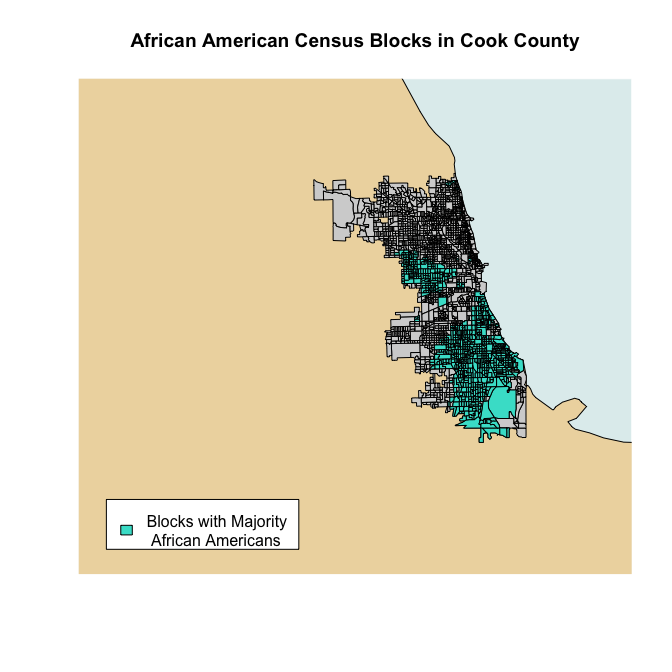
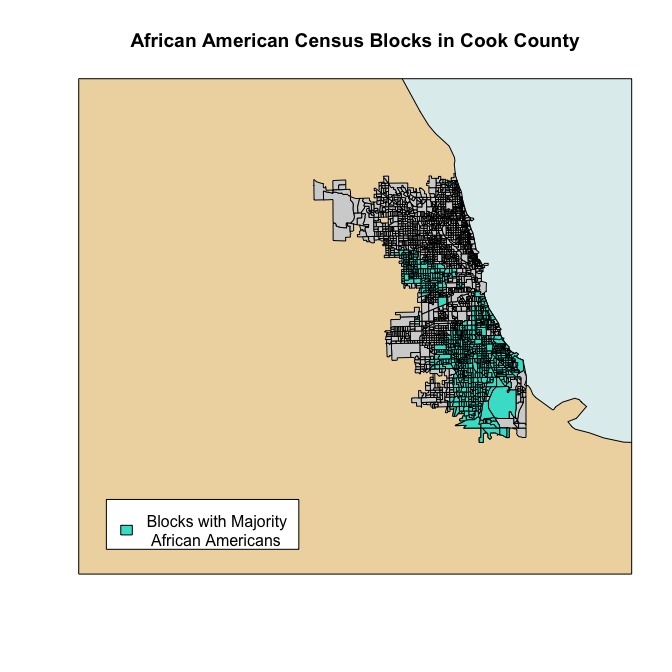
table updates

diff --git a/Magnet_Analysis.md b/Magnet_Analysis.md
@@ -2,7 +2,7 @@ Magnet Analysis
 ================
 Chad Evans
 
-Built with 3.3.2. Last run on 2017-05-31.
+Built with 3.3.2. Last run on 2017-06-02.
 
 -   [Set Up](#setup)
 -   [Chicago Map](#chicagomap)
@@ -101,7 +101,7 @@ plot(chiblocks.shp, add=T, col="red3")
 legend("bottomleft", inset=.05, c("Cook County","City of Chicago"), fill=c("lightgrey","red3"), horiz=FALSE, bg="white")  
 ```
 
-<img src="graphs/Chicago_Cook_County_Map-1.png" alt="alt text" width="400" height="400">
+<img src="graphs/Chicago_Cook_County_Map-1.png" width="500" height="500">
 
 Majority African American Blocks
 --------------------------------
@@ -110,6 +110,7 @@ Let's highlight the areas of Chicago that are majority African American. The sou
 
 ``` r
 plot(USA.shp, ylim=c(41.6, 42), xlim=c(-88.4, -87.35),col = "wheat2",bg="azure2", main="African American Census Blocks in Cook County")
+box()
 plot(chiblocks.shp, add=T, col="lightgrey")
 pctblack.shp=chiblocks.shp[!is.na(chiblocks.shp$PCTBLACK),]
 sel <- pctblack.shp$PCTBLACK > 0.50
@@ -117,7 +118,7 @@ plot(pctblack.shp[sel, ], col = "turquoise", add = TRUE) # add selected zones to
 legend("bottomleft", inset=.05, c("Blocks with Majority \n African Americans"), fill=c("turquoise"), horiz=FALSE, bg="white") 
 ```
 
-![](graphs/Majority_Black_Census_Tracts_Map-1.png)
+<img src="graphs/Majority_Black_Census_Tracts_Map-1.png" width="500" height="500">
 
 This map is consistent with expectations.
 
@@ -144,7 +145,7 @@ plot(chiblocks.shp[chiblocks.shp$PERCAPCRIME > .2, ], col = "orange", add = TRUE
 legend("bottomleft", inset=.05, c("Blocks with > .2 \n crimes per ACS respondent"), fill=c("orange"), horiz=FALSE, bg="white") 
 ```
 
-![](graphs/High_Crime_Census_Blocks_in_Chicago-1.png)
+<img src="graphs/High_Crime_Census_Blocks_in_Chicago-1.png" width="500" height="500">
 
 Elementary Schools in Chicago
 -----------------------------
@@ -161,12 +162,12 @@ Now, let's plot those schools over the city of chicago base file.
 ``` r
 plot(USA.shp, ylim=c(41.64454, 42.02304), xlim=c(-87.94011, -87.52414),col = "wheat2",bg="azure2", main="Elementary Schools in Chicago")
 box()
-plot(chi.shp, add=T, col="lightgrey")
+plot(chiblocks.shp, add=T, col="lightgrey")
 plot(schools.shp, pch = 17, add=T, col="red")
 legend("bottomleft", inset=.05, pch = 17, c("Elementary School"), col="red", horiz=FALSE, bg="white")   
 ```
 
-![](graphs/Elem_Schools_in_Chicago_Map-1.png)
+<img src="graphs/Elem_Schools_in_Chicago_Map-1.png" width="500" height="500">
 
 ``` r
 plot(USA.shp, ylim=c(41.63454, 42.02304), xlim=c(-87.94011, -87.52414),col = "wheat2",bg="azure2")
@@ -175,16 +176,16 @@ plot(chiblocks.shp, add=T, col="lightgrey")
 magnets.shp<-schools.shp[schools.shp$Type2=="Magnet",]
 clusters.shp<-schools.shp[schools.shp$Type2=="Magnet Cluster",]
 openenroll.shp<-schools.shp[schools.shp$Type2=="Open Enrollment", ]
-plot(magnets.shp, pch = 17, add=T, col="red",cex=2.5)
-plot(clusters.shp, pch = 17, add=T, col="blue",cex=2.5)
-plot(openenroll.shp, pch = 17, add=T, col="darkgreen",cex=2.5)
-legend("bottomleft", inset=.05, pch = c(17,17,17,15), c("Traditional Magnet","Magnet Cluster","Neighborhood School", "Chicago Census Block"), col=c("red","blue","darkgreen","lightgrey"), horiz=FALSE, cex=2.5)   
+plot(magnets.shp, pch = 17, add=T, col="red",cex=1)
+plot(clusters.shp, pch = 17, add=T, col="blue",cex=1)
+plot(openenroll.shp, pch = 17, add=T, col="darkgreen",cex=1)
+legend("bottomleft", inset=.05, pch = c(17,17,17,15), c("Traditional Magnet","Magnet Cluster","Neighborhood School", "Chicago Census Block"), col=c("red","blue","darkgreen","lightgrey"), horiz=FALSE, cex=1)   
 mtext("Lake Michigan             ",side=1,line=-75,adj=1,cex=2.5,col="darkblue")
 mtext("Source: Chicago Public Schools Data Portal 2013-2014. Map excludes elementary charters, magnets that require admissions tests, \n small schools and special education schools.",side=1,line=3,adj=0,cex=2,col="black")
 mtext("           Illinois",side=1,line=-45,adj=0,cex=3,col="black")
 ```
 
-![](graphs/School_Types_Chicago_Color-1.png)
+<img src="graphs/School_Types_Chicago_Color-1.png" width="500" height="500">
 
 ``` r
 plot(USA.shp, ylim=c(41.63454, 42.02304), xlim=c(-87.94011, -87.52414),col = "lightgrey",bg="gray96")
@@ -202,7 +203,7 @@ mtext("Source: Chicago Public Schools Data Portal 2013-2014. Map excludes elemen
 mtext("           Illinois",side=1,line=-45,adj=0,cex=3,col="black")
 ```
 
-![](graphs/School_Types_Chicago_BW-1.png)
+<img src="graphs/School_Types_Chicago_BW-1.png" width="500" height="500">
 
 Chicago blocks on Lake Michigan
 -------------------------------
@@ -212,7 +213,7 @@ ShapeFile.Dissolved<-gUnionCascaded(chiblocks.shp)
 x<-gRelate(chiblocks.shp, ShapeFile.Dissolved, byid= TRUE)
 poly.border<-which(x %in% c("2FF11F212"))
 #library(raster)  # crop from raster() requires select() from base
-michblocks.shp <- raster::crop(chiblocks.shp[poly.border,], raster::extent(-87.7, -87.525, 41.73180, 42.25))
+michblocks.shp <- raster::crop(chiblocks.shp[poly.border,], raster::extent(-87.673, -87.525, 41.70, 42.25))
 ```
 
     ## Warning: Setting row names on a tibble is deprecated.
@@ -224,10 +225,7 @@ michblocks.shp$MICH<-1
 chiblocks.shp@data$MICH<-0
 rows <- row.names(michblocks.shp@data)
 chiblocks.shp@data[rows, "MICH"] <- michblocks.shp@data$MICH
-```
-
-``` r
-spjoin <- over(schools.shp, chiblocks.shp) %>% as_data_frame()
+spjoin <- over(schools.shp, chiblocks.shp) %>% as_data_frame() 
 ```
 
     ## Warning: Setting row names on a tibble is deprecated.
@@ -236,17 +234,18 @@ spjoin <- over(schools.shp, chiblocks.shp) %>% as_data_frame()
 data=bind_cols(schools.shp@data, spjoin)
 ```
 
+There are no schools located in neighborhoods that directly border Lake Michigan
+
 ``` r
 data$Type=relevel(data$Type, ref="Open Enrollment")
 data$Type2=relevel(data$Type2, ref="Open Enrollment")
-#data$Type2=relevel(data$Type2, ref="Magnet Cluster")
 data<- data %>% filter(Type2 == "Open Enrollment" | Type2 == "Magnet" | Type2 == "Magnet Cluster") # removes schools requiring testing, small, special ed and charter schools
 ```
 
 Let's center variables and calculate the quadratic value, when required by the analysis.
 
 ``` r
-data <- data %>% mutate(CPERCAPCRIME= PERCAPCRIME-mean(PERCAPCRIME,na.rm=T), CLOGPCT30MIN=log(PCT30MIN)-mean(log(PCT30MIN), na.rm=T), CPCTHOMEAGE40=PCTHOMEAGE40-mean(PCTHOMEAGE40,na.rm=T), CLOGMEDINCOME=log(MEDINCOME)-mean(log(MEDINCOME), na.rm=T), CMICH=MICH-mean(MICH,na.rm=T), CREAD=ISAT.Exceeding.Reading...-mean(ISAT.Exceeding.Reading...,na.rm=T), CMATH=ISAT.Exceeding.Math..-mean(ISAT.Exceeding.Math..,na.rm=T), CBk=PCTBLACK - mean(PCTBLACK, na.rm=T), CMEDROOMS=MEDROOMS-mean(MEDROOMS, na.rm=T)) %>% mutate(CBk2=CBk*CBk, CMEDROOMS2=CMEDROOMS*CMEDROOMS)
+data <- data %>% mutate(CPERCAPCRIME= PERCAPCRIME-mean(PERCAPCRIME,na.rm=T), CLOGPCT30MIN=log(PCT30MIN)-mean(log(PCT30MIN), na.rm=T), CPCTHOMEAGE40=PCTHOMEAGE40-mean(PCTHOMEAGE40,na.rm=T), CLOGMEDINCOME=log(MEDINCOME)-mean(log(MEDINCOME), na.rm=T), CREAD=ISAT.Exceeding.Reading...-mean(ISAT.Exceeding.Reading...,na.rm=T), CMATH=ISAT.Exceeding.Math..-mean(ISAT.Exceeding.Math..,na.rm=T), CBk=PCTBLACK - mean(PCTBLACK, na.rm=T), CMEDROOMS=MEDROOMS-mean(MEDROOMS, na.rm=T)) %>% mutate(CBk2=CBk*CBk, CMEDROOMS2=CMEDROOMS*CMEDROOMS)
 ```
 
 Missing Data
@@ -264,7 +263,7 @@ labs(x='', y='% missing', title='Percent missing data by feature') +
 theme(axis.text.x=element_text(angle=90, hjust=1))
 ```
 
-![](graphs/Missing%20data-1.png) Of 49 columns, 20 have missing values. The percentage of values missing ranges from 0.5% in PCTBLACK to 4.1% in MEDVALUE. Very little missing data. Listwise deletion will work fine.
+![](graphs/Missing%20data-1.png) Of 48 columns, 20 have missing values. The percentage of values missing ranges from 0.5% in PCTBLACK to 4.1% in MEDVALUE. Very little missing data. Listwise deletion will work fine.
 
 Descriptive Statistics
 ----------------------
@@ -283,16 +282,28 @@ data %>%
 Correlation between school types and educational quality.
 
 ``` r
-cor(data$Type2=="Magnet Cluster",data$ISAT.Exceeding.Reading..., use="pairwise.complete.obs") # correlation of 0.01262809 (was 0.01949)
+cor(data$Type2=="Magnet Cluster",data$ISAT.Exceeding.Reading..., use="pairwise.complete.obs")
 ```
 
     ## [1] 0.01262809
 
 ``` r
-cor(data$Type2=="Magnet",data$ISAT.Exceeding.Reading..., use="pairwise.complete.obs") # correlation of 0.3541225 (was 0.3234661)
+cor(data$Type2=="Magnet",data$ISAT.Exceeding.Reading..., use="pairwise.complete.obs") # 0.01262809 correlation of 0.3541225 (was 0.3234661)
 ```
 
     ## [1] 0.3541225
+
+``` r
+cor(data$Type2=="Magnet Cluster",data$ISAT.Exceeding.Math.., use="pairwise.complete.obs") #0.01710154
+```
+
+    ## [1] 0.01710154
+
+``` r
+cor(data$Type2=="Magnet",data$ISAT.Exceeding.Math.., use="pairwise.complete.obs") # 0.3341444
+```
+
+    ## [1] 0.3341444
 
 ``` r
 data %>% 
@@ -311,14 +322,14 @@ data %>%
 ``` r
 Table<-data %>% 
   group_by(Type2) %>%
-  select(MEDVALUE,PERCAPCRIME,MEDROOMS,MEDINCOME,PCT30MIN,PCTHOMEAGE40,PCTBLACK,MICH,ISAT.Exceeding.Reading...,ISAT.Exceeding.Math..) %>% 
+  select(MEDVALUE,PERCAPCRIME,MEDROOMS,MEDINCOME,PCT30MIN,PCTHOMEAGE40,PCTBLACK,ISAT.Exceeding.Reading...,ISAT.Exceeding.Math..) %>% 
   summarise_each(funs(mean(., na.rm = TRUE))) %>% 
   select(-Type2) %>% 
   t() %>%
   round(digits = 2)
 colnames(Table) = c("Open Enrollment","Magnet","Magnet Cluster")
-row.names(Table)<-c("Average Median Home Value","Crime Rate","Median # of Rooms","Median Income","Proportion Traveling >30 Minutes to Work","Proportion of Homes Built Before 1940","Proportion Black","Lake Michigan","Proportion Exceeding ISAT Reading","Proportion Exceeding ISAT Math")
-kable(Table, caption = "Caption here")
+row.names(Table)<-c("Average Median Home Value","Crime Rate","Median # of Rooms","Median Income","Proportion Traveling >30 Minutes to Work","Proportion of Homes Built Before 1940","Proportion Black","Proportion Exceeding ISAT Reading","Proportion Exceeding ISAT Math")
+kable(Table)
 ```
 
 |                                             |  Open Enrollment|     Magnet|  Magnet Cluster|
@@ -330,7 +341,6 @@ kable(Table, caption = "Caption here")
 | Proportion Traveling &gt;30 Minutes to Work |             0.59|       0.53|            0.61|
 | Proportion of Homes Built Before 1940       |             0.50|       0.46|            0.52|
 | Proportion Black                            |             0.46|       0.39|            0.45|
-| Lake Michigan                               |             0.00|       0.00|            0.00|
 | Proportion Exceeding ISAT Reading           |            12.81|      27.29|           14.88|
 | Proportion Exceeding ISAT Math              |            17.11|      32.77|           19.51|
 
@@ -338,11 +348,65 @@ Analysis
 --------
 
 ``` r
-mod=lm(log(MEDVALUE)~Magnet, data=data)
-mod=lm(log(MEDVALUE)~Magnet+CPERCAPCRIME+CMEDROOMS+CMEDROOMS2+CLOGMEDINCOME+CLOGPCT30MIN+CPCTHOMEAGE40+CBk+CBk2+CMICH, data=data)
-mod=lm(log(MEDVALUE)~Type2+CPERCAPCRIME+CMEDROOMS+CMEDROOMS2+CLOGMEDINCOME+CLOGPCT30MIN+CPCTHOMEAGE40+CBk+CBk2+CMICH, data=data)
-mod=lm(log(MEDVALUE)~Type2+CPERCAPCRIME+CMEDROOMS+CMEDROOMS2+CLOGMEDINCOME+CLOGPCT30MIN+CPCTHOMEAGE40+CBk+CBk2+CMICH+CREAD+CMATH, data=data)
+mod0<-lm(log(MEDVALUE)~Magnet, data=data)
+mod1<-lm(log(MEDVALUE)~Magnet+CPERCAPCRIME+CMEDROOMS+CMEDROOMS2+CLOGMEDINCOME+CLOGPCT30MIN+CPCTHOMEAGE40+CBk+CBk2, data=data)
+
+Varlist<-c("Intercept", "Magnet (ref=Neighborhood Schools)", "Crime Rate","Median Number of Rooms","Median Number of Rooms^2", "log(Median Income)","log(Proportion Commuting > 30 min)","Proportion of Homes Build before 1940","Proportion Black","Proportion Black^2")
+
+coefs01<-list(summary(mod0)$coefficients[,-3], summary(mod1)$coefficients[,-3])
+
+n <- max(sapply(coefs01, nrow)) 
+Table2<-do.call(cbind, lapply(coefs01, function (x) {
+  rbind(x, matrix(, n-nrow(x), ncol(x)))
+})) 
+row.names(Table2)<-Varlist
+kable(round(Table2,2))
 ```
+
+|                                       |  Estimate|  Std. Error|  Pr(&gt;|t|)|  Estimate|  Std. Error|  Pr(&gt;|t|)|
+|---------------------------------------|---------:|-----------:|------------:|---------:|-----------:|------------:|
+| Intercept                             |     12.15|        0.03|            0|     12.09|        0.06|         0.00|
+| Magnet (ref=Neighborhood Schools)     |      0.21|        0.05|            0|      0.10|        0.04|         0.02|
+| Crime Rate                            |        NA|          NA|           NA|     -0.48|        0.20|         0.02|
+| Median Number of Rooms                |        NA|          NA|           NA|     -0.13|        0.03|         0.00|
+| Median Number of Rooms^2              |        NA|          NA|           NA|      0.04|        0.02|         0.00|
+| log(Median Income)                    |        NA|          NA|           NA|      0.37|        0.05|         0.00|
+| log(Proportion Commuting &gt; 30 min) |        NA|          NA|           NA|     -0.39|        0.08|         0.00|
+| Proportion of Homes Build before 1940 |        NA|          NA|           NA|      0.13|        0.09|         0.13|
+| Proportion Black                      |        NA|          NA|           NA|     -0.20|        0.07|         0.00|
+| Proportion Black^2                    |        NA|          NA|           NA|      0.27|        0.26|         0.30|
+
+``` r
+mod2<-lm(log(MEDVALUE)~Type2+CPERCAPCRIME+CMEDROOMS+CMEDROOMS2+CLOGMEDINCOME+CLOGPCT30MIN+CPCTHOMEAGE40+CBk+CBk2, data=data)
+mod3<-lm(log(MEDVALUE)~Type2+CPERCAPCRIME+CMEDROOMS+CMEDROOMS2+CLOGMEDINCOME+CLOGPCT30MIN+CPCTHOMEAGE40+CBk+CBk2+CREAD+CMATH, data=data)
+
+Varlist<-c("Intercept", "Magnet (ref=Neighborhood Schools)","Magnet Cluster (ref=Neighborhood Schools)","Crime Rate","Median Number of Rooms","Median Number of Rooms^2", "log(Median Income)","log(Proportion Commuting > 30 min)","Proportion of Homes Build before 1940","Proportion Black","Proportion Black^2","Stand. Reading Score","Stand. Math Score")
+
+coefs23<-list(summary(mod2)$coefficients[,-3], summary(mod3)$coefficients[,-3])
+
+n <- max(sapply(coefs23, nrow)) 
+Table3<-do.call(cbind, lapply(coefs23, function (x) {
+  rbind(x, matrix(, n-nrow(x), ncol(x)))
+})) 
+row.names(Table3)<-Varlist
+kable(round(Table3,2))
+```
+
+|                                           |  Estimate|  Std. Error|  Pr(&gt;|t|)|  Estimate|  Std. Error|  Pr(&gt;|t|)|
+|-------------------------------------------|---------:|-----------:|------------:|---------:|-----------:|------------:|
+| Intercept                                 |     12.09|        0.06|         0.00|     12.14|        0.06|         0.00|
+| Magnet (ref=Neighborhood Schools)         |      0.19|        0.07|         0.00|      0.02|        0.07|         0.75|
+| Magnet Cluster (ref=Neighborhood Schools) |      0.06|        0.05|         0.23|      0.05|        0.05|         0.30|
+| Crime Rate                                |     -0.48|        0.20|         0.02|     -0.43|        0.20|         0.03|
+| Median Number of Rooms                    |     -0.12|        0.03|         0.00|     -0.12|        0.03|         0.00|
+| Median Number of Rooms^2                  |      0.04|        0.02|         0.00|      0.03|        0.01|         0.04|
+| log(Median Income)                        |      0.38|        0.05|         0.00|      0.28|        0.05|         0.00|
+| log(Proportion Commuting &gt; 30 min)     |     -0.37|        0.08|         0.00|     -0.35|        0.07|         0.00|
+| Proportion of Homes Build before 1940     |      0.15|        0.09|         0.09|      0.21|        0.08|         0.01|
+| Proportion Black                          |     -0.20|        0.07|         0.00|     -0.13|        0.07|         0.08|
+| Proportion Black^2                        |      0.29|        0.26|         0.27|      0.14|        0.26|         0.58|
+| Stand. Reading Score                      |        NA|          NA|           NA|      0.02|        0.00|         0.00|
+| Stand. Math Score                         |        NA|          NA|           NA|      0.00|        0.00|         0.27|
 
 Sensitivity Test
 ----------------
@@ -352,9 +416,9 @@ data2 <- data %>% filter(Closed==0)
 ```
 
 ``` r
-mod=lm(log(MEDVALUE)~Specialty+PERCAPCRIME+CBk+CBk2+log(PCT30MIN)+CMEDROOMS+CMEDROOMS2+PCTHOMEAGE40+log(MEDINCOME)+MICH, data=data)
+mod=lm(log(MEDVALUE)~Specialty+PERCAPCRIME+CBk+CBk2+log(PCT30MIN)+CMEDROOMS+CMEDROOMS2+PCTHOMEAGE40+log(MEDINCOME), data=data)
 
 # When Interaction Term is included
-mod=lm(log(MEDVALUE)~Type2+CPERCAPCRIME+CMEDROOMS+CMEDROOMS2+CLOGMEDINCOME+CLOGPCT30MIN+CPCTHOMEAGE40+CBk+CBk2+CMICH+CREAD+CREAD*Type2, data=data)
-mod=lm(log(MEDVALUE)~Type2+CPERCAPCRIME+CMEDROOMS+CMEDROOMS2+CLOGMEDINCOME+CLOGPCT30MIN+CPCTHOMEAGE40+CBk+CBk2+CMICH+CMATH+CMATH*Type2, data=data)
+mod=lm(log(MEDVALUE)~Type2+CPERCAPCRIME+CMEDROOMS+CMEDROOMS2+CLOGMEDINCOME+CLOGPCT30MIN+CPCTHOMEAGE40+CBk+CBk2+CREAD+CREAD*Type2, data=data)
+mod=lm(log(MEDVALUE)~Type2+CPERCAPCRIME+CMEDROOMS+CMEDROOMS2+CLOGMEDINCOME+CLOGPCT30MIN+CPCTHOMEAGE40+CBk+CBk2+CMATH+CMATH*Type2, data=data)
 ```
